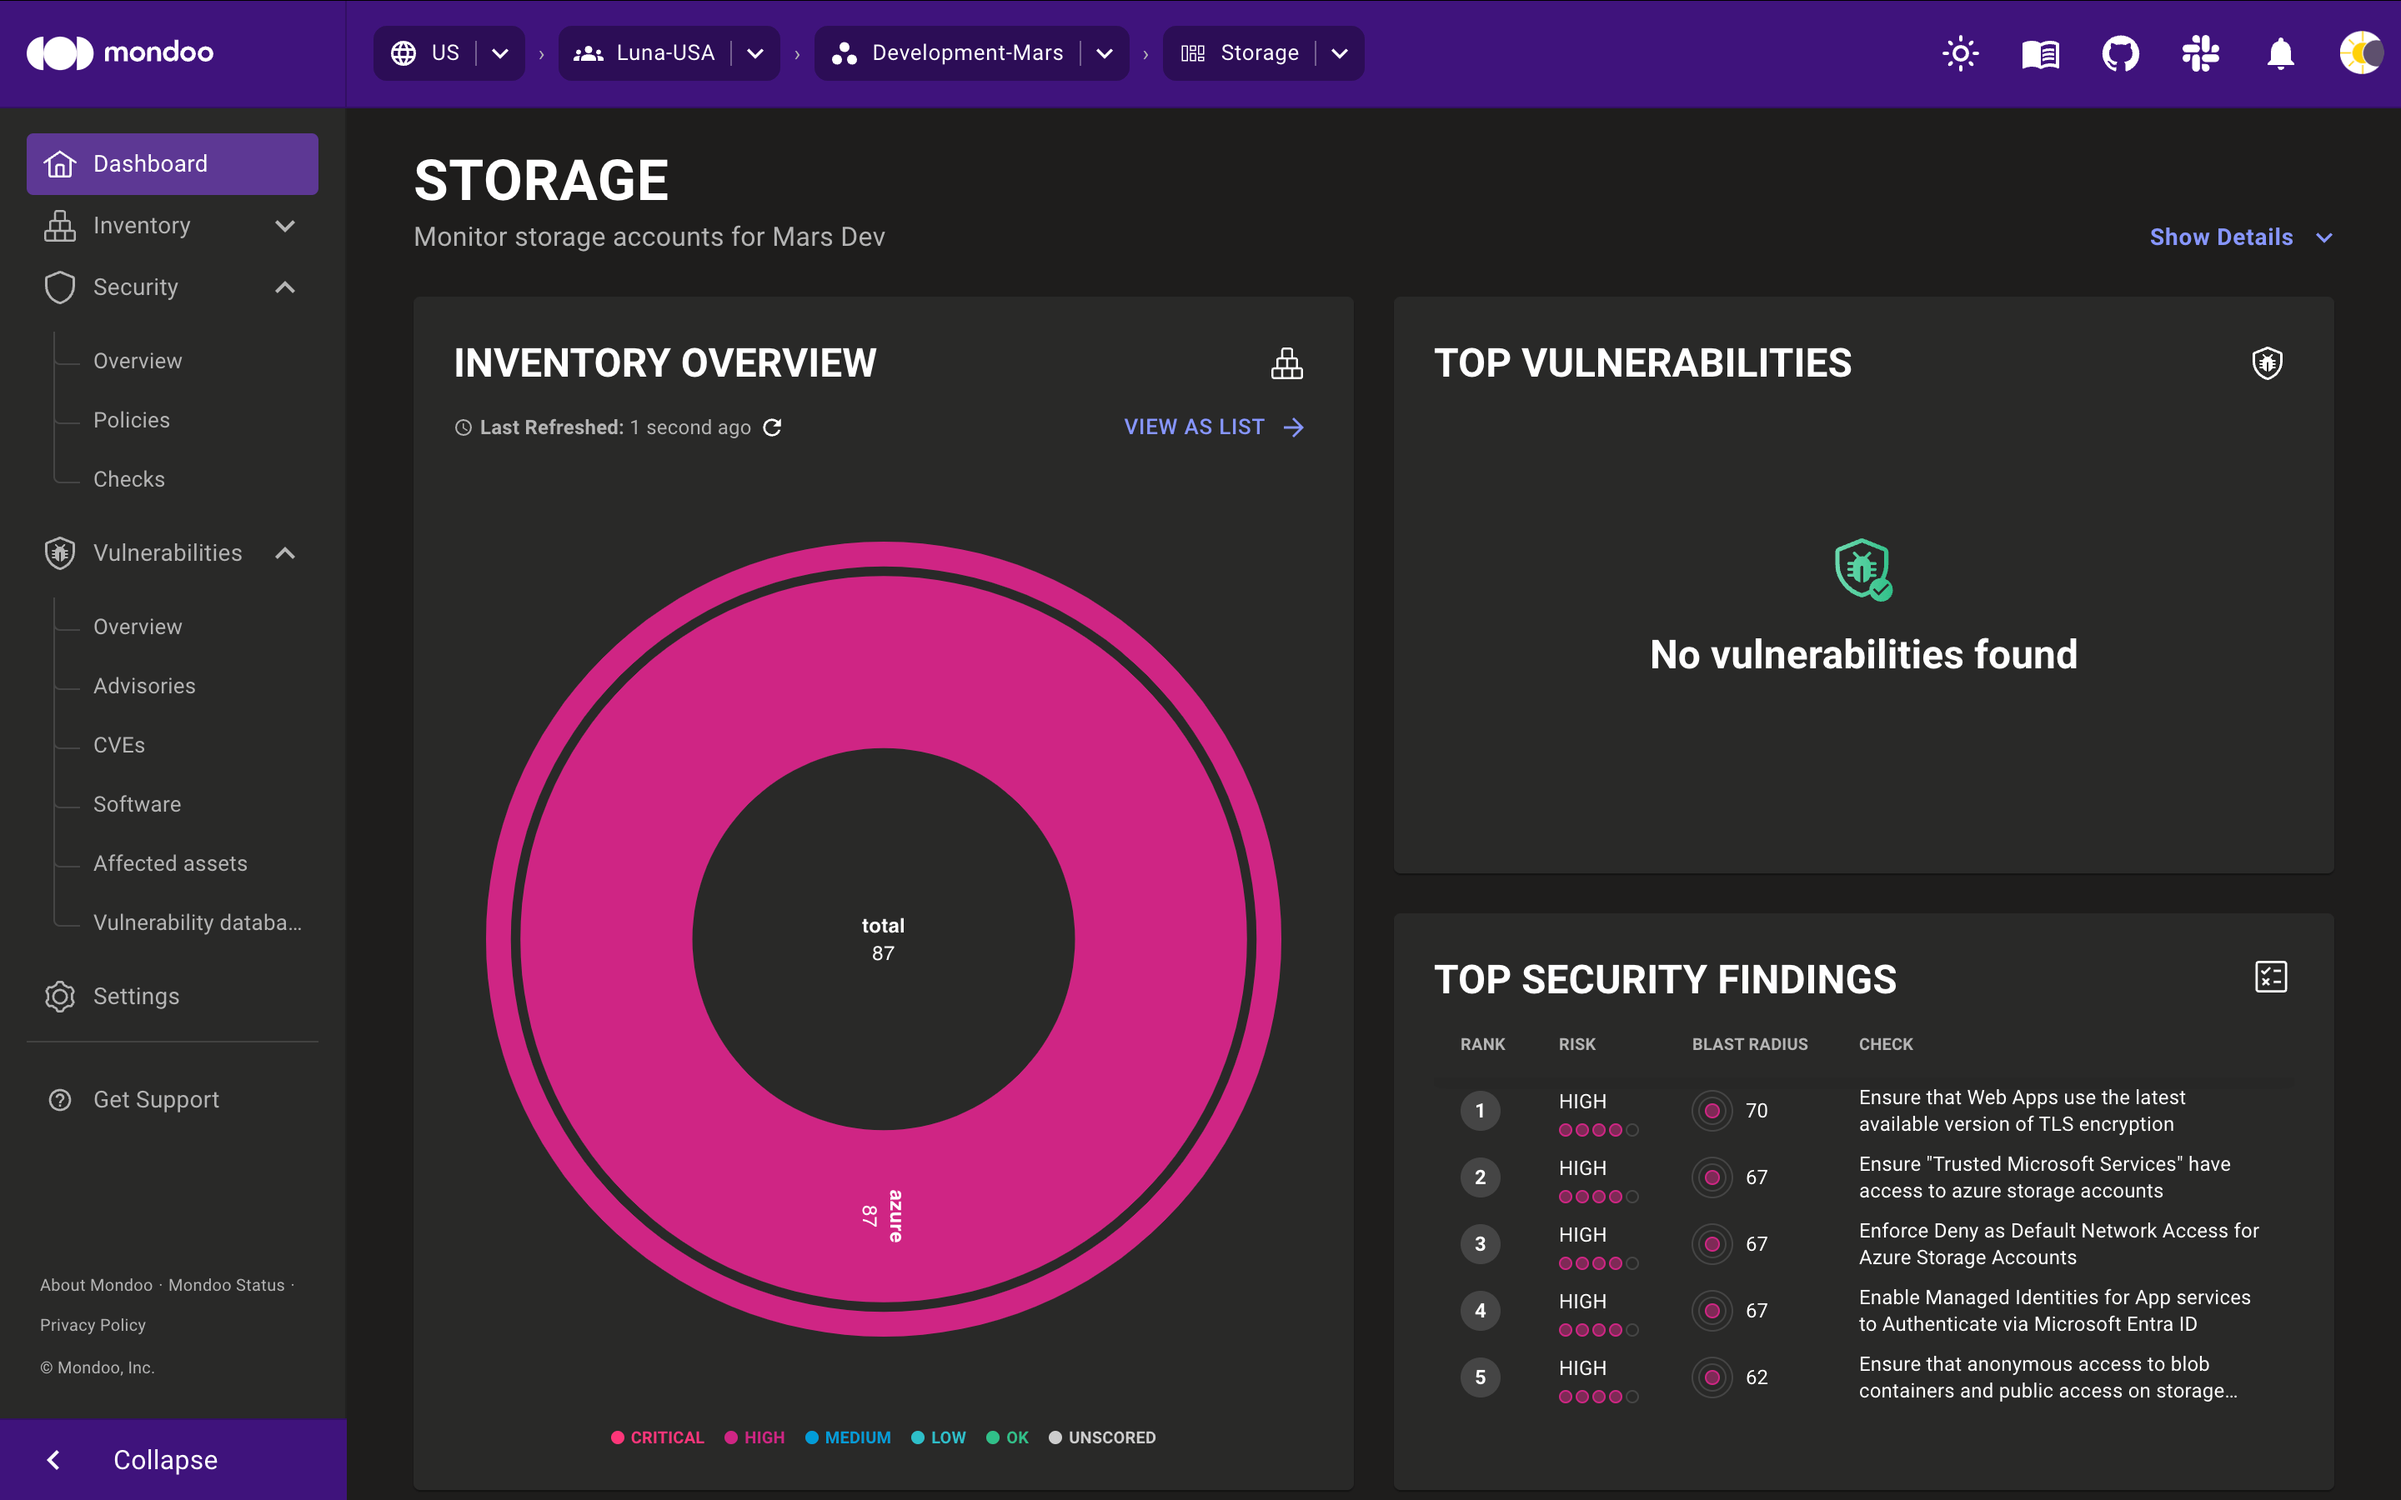
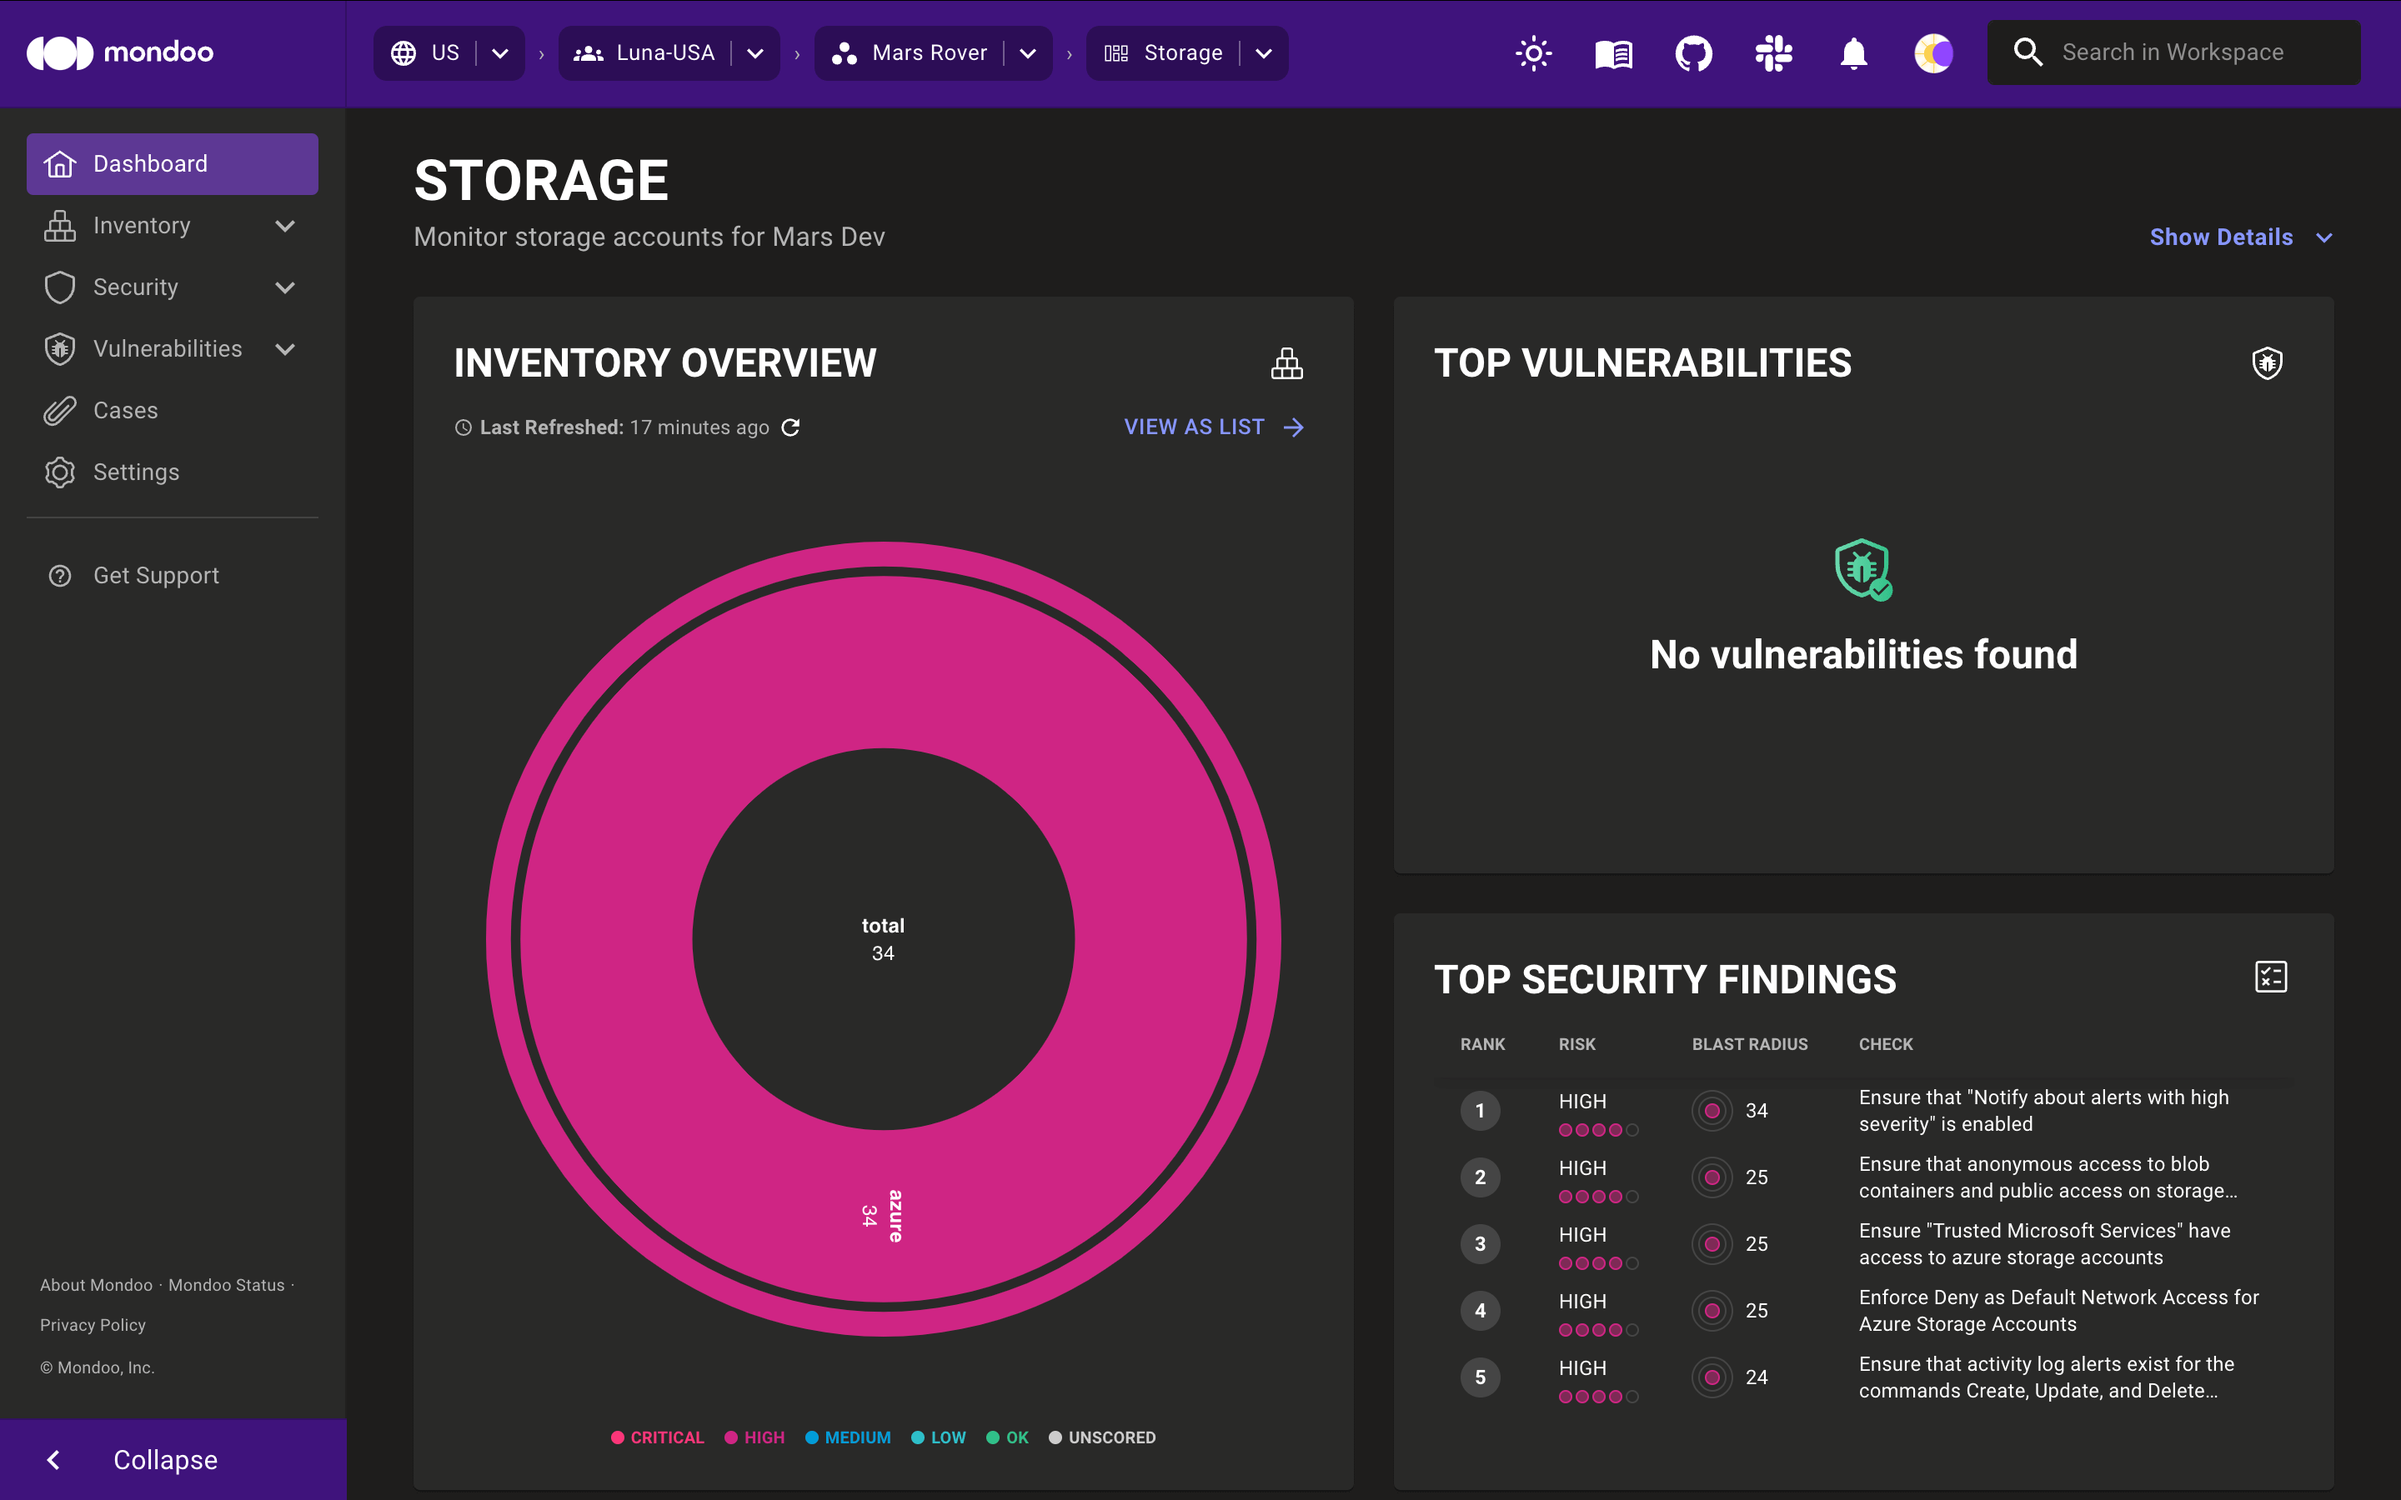
Tie together workspaces and cases

diff --git a/docs/platform/start/organize/workspaces.md b/docs/platform/start/organize/workspaces.md
@@ -175,6 +175,10 @@ The drop-down menu shows all the workspaces in the current space. If you have a 
 
 ![Mondoo workspace overview](/img/platform/start/workspace-dash.png)
 
+To find an asset in the workspace type characters in the **Search in Workspace** bar at the top-right corner of the page. To learn about searching in Mondoo, read [Search Your Inventory](/platform/intel/search/).
+
+To see all the cases in the workspace, select **Cases** in the side navigation bar. To learn about cases in Mondoo, read [Track and Fix Findings with Cases and Your Ticket System](/platform/cases/overview/).
+
 ## Manage workspaces
 
 You can change the query that defines the assets in a workspace. You can also delete a workspace.
